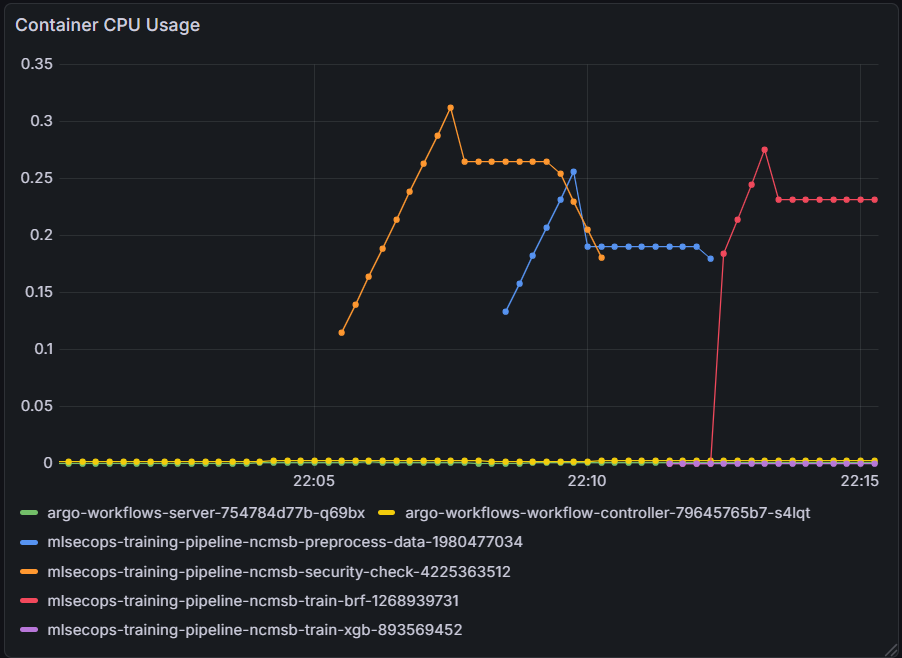
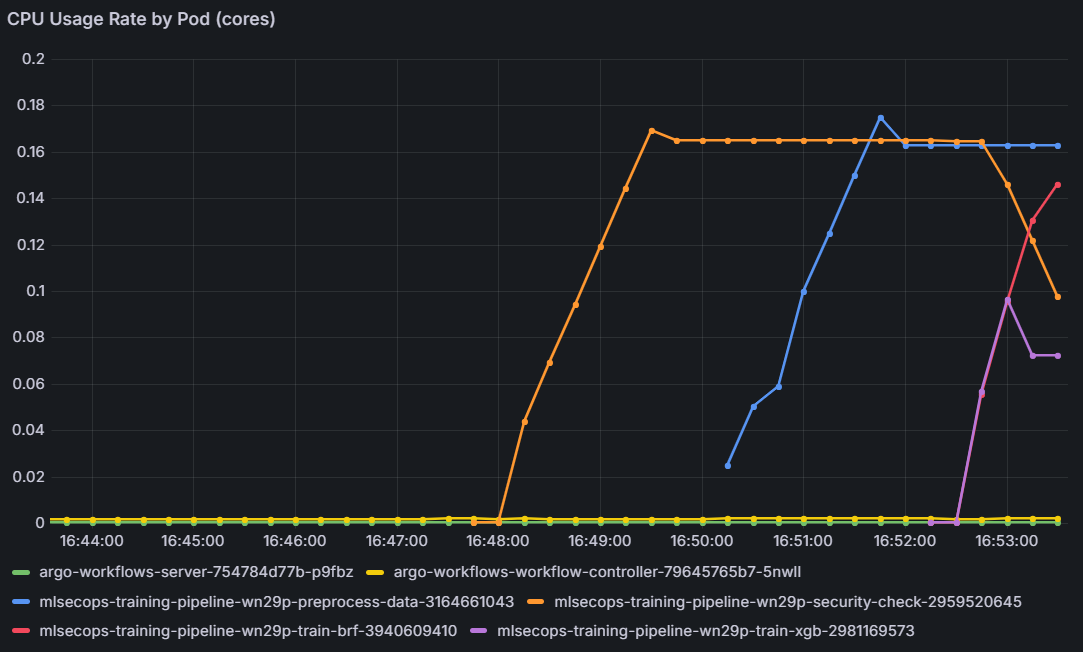
thêm nội dung phần đánh giá hiệu năng mlsecops

diff --git a/chapters/4-DanhGiaKetQua.tex b/chapters/4-DanhGiaKetQua.tex
@@ -340,6 +340,12 @@ Cấu hình của Retrain Pipeline được thực thi với các tham số sau:
 Tập dữ liệu huấn luyện mô hình bao gồm toàn bộ tập \textbf{Train/Test}, dữ liệu mới dùng cho tái huấn luyện mô hình được trích từ tập \textbf{Out-of-time Test Set}. Chi tiết được mô tả tại Bảng \ref{tab:dataset_split}.
 
 \subsection{Đánh giá hiệu năng hệ thống MLSecOps}
+Trong phần này, nhóm tiến hành đánh giá hiệu năng hệ thống MLSecOps trong quá trình thực thi pipeline huấn luyện và tái huấn luyện mô hình. Việc đánh giá tập trung vào mức tiêu thụ tài nguyên hệ thống của từng bước trong pipeline nhằm làm rõ đặc tính tính toán, xác định các bước có nguy cơ trở thành nút thắt hiệu năng, đồng thời cung cấp cơ sở cho việc tối ưu và mở rộng hệ thống trong tương lai.
+
+Hai chỉ số hiệu năng chính được theo dõi là mức sử dụng CPU và bộ nhớ của các pod trong hệ thống. Các chỉ số này được Prometheus thu thập trong suốt quá trình thực thi pipeline và được trực quan hóa thông qua các dashboard Grafana, cho phép quan sát trực tiếp sự biến động tài nguyên theo thời gian.
+
+Cụ thể, mức sử dụng CPU được đo bằng chỉ số container_cpu_usage_rate, phản ánh số nhân CPU mà mỗi pod sử dụng trung bình tại một thời điểm. Trong khi đó, mức sử dụng bộ nhớ được đo bằng container_memory_working_set, đại diện cho lượng bộ nhớ thực tế mà pod đang chiếm giữ trong quá trình xử lý. Việc lựa chọn hai chỉ số này giúp phản ánh chính xác cường độ tính toán và nhu cầu lưu trữ dữ liệu của từng bước trong pipeline MLSecOps.
+
 \label{sec:4.2.1}
 %TODO
 \begin{table}[!htbp]
@@ -385,14 +391,14 @@ Tập dữ liệu huấn luyện mô hình bao gồm toàn bộ tập \textbf{Tr
 \end{table}
 
 
-
-Hai chỉ số hiệu năng trong lúc quy trình MLSecOps thực thi mà nhóm theo dõi là CPU và memory. Các chỉ số này được Prometheus thu thập trong quá trình thực thi quy trình huấn luyện mô hình, và được trực quan hóa bằng Grafana. Cụ thể hai chỉ số được theo dõi là rate container cpu usage seconds - cho biết mức nhân CPU mà pod đang sử dụng trung bình, và container memory working set bytes - đo lường bộ nhớ 
-được pod tiêu thụ tại một thời điểm.
-
-Mục tiêu của nhóm khi lựa chọn hai chỉ số này là để có cái nhìn định lượng về mỗi bước trong quy trình MLSecOps đang tính toán bao nhiêu và giữ bao nhiêu dữ liệu, qua đó có thể xác định được bottleneck và tối ưu tài nguyên.
-
-\subsubsection{Mức nhân CPU pod sử dụng trung bình}
+\subsubsection{Mức nhân CPU pod sử dụng}
 \paragraph{Huấn luyện mô hình}
+
+Hình \ref{fig:chap4-grafana-cpu} minh họa mức sử dụng CPU của các pod trong quá trình huấn luyện mô hình. Biểu đồ cho thấy mức tiêu thụ CPU thay đổi rõ rệt giữa các bước trong pipeline, phản ánh sự khác biệt về cường độ tính toán của từng tác vụ.
+
+Quan sát từ biểu đồ cho thấy các bước liên quan đến kiểm tra tấn công lật nhãn (security check) và huấn luyện mô hình có mức sử dụng CPU cao hơn đáng kể so với các bước còn lại. Đặc biệt, bước security check thể hiện mức sử dụng CPU cao và duy trì ổn định trong suốt thời gian thực thi, cho thấy đây là bước có cường độ xử lý lớn và có khả năng trở thành nút thắt hiệu năng của pipeline nếu không được cấp phát tài nguyên phù hợp.
+
+Ngược lại, các bước như chuẩn bị dữ liệu hoặc so sánh mô hình có mức sử dụng CPU thấp và thời gian thực thi ngắn, cho thấy các bước này không tạo áp lực đáng kể lên tài nguyên tính toán của hệ thống.
 
 \begin{figure}[!htbp]
     \centering
@@ -401,11 +407,17 @@ Mục tiêu của nhóm khi lựa chọn hai chỉ số này là để có cái 
     \label{fig:chap4-grafana-cpu}
 \end{figure}
 
-Hình \ref{fig:chap4-grafana-cpu} thể hiện mức nhân CPU mà pod trong hệ thống MLSecOps sử dụng trung bình theo thời gian trong quá trình huấn luyện mô hình. Trong biểu đồ này, trục hoành biểu diễn mốc thời gian, trong khi tục tung biểu diễn mức sử dụng CPU của từng container được đo theo đơn vị nhân CPU. Các đường trong biểu đồ tương ứng với một pod trong từng bước của quy trình MLSecOps.
-
-Bảng \ref{tab:cpu_usage_per_pod} trình bày mức sử dụng CPU của từng pod tương ứng với các bước trong pipeline MLsecOps. Kết quả cho thấy bước security check và train brf là hai bước tiêu thụ nhiều tài nguyên CPU nhất. Trong đó, bước security check tiêu thụ CPU cao nhất (0.31 nhân), cho ta thấy đây là bước có cường độ tính toán cao và có khả năng trở thành nút thắt hiệu năng của pipeline. Các bước khác như get base data và train-xgb có mức sử dụng CPU thấp và thời gian thực thi ngắn, cho thấy các bước này không tạo áp lực đáng kể lên tài nguyên hệ thống.
-
 \paragraph{Tái huấn luyện mô hình}
+Hình \ref{fig:chap4-grafana-cpu} minh họa mức sử dụng CPU của các pod trong hệ thống MLSecOps trong kịch bản tái huấn luyện mô hình. Nhìn chung, xu hướng sử dụng CPU cũng tương tự như quá trình huấn luyện ban đầu, tuy nhiên có sự thay đổi nhẹ về mức độ tiêu thụ tài nguyên giữa các bước. Một số bước thể hiện mức sử dụng CPU thấp hơn do dữ liệu đầu vào phần lớn đã có sẵn, trong khi các bước huấn luyện mô hình và tiền xử lý vẫn duy trì mức sử dụng CPU đáng kể.
+
+Kết quả này cho thấy pipeline MLSecOps có khả năng tận dụng lại các thành phần đã được xử lý trước đó, giúp giảm chi phí tính toán trong các lần tái huấn luyện, đồng thời vẫn đảm bảo tính toàn vẹn và an toàn của quy trình.
+
+\begin{figure}[!htbp]
+    \centering
+    \includegraphics[scale=0.6]{img/chapter4/cpu-retrain.png}
+    \caption{Biểu đồ mức nhân CPU pod sử dụng trung bình khi tái huấn luyện mô hình}
+    \label{fig:chap4-grafana-cpu}
+\end{figure}
 
 % \begin{table}[h!]
 % \centering
@@ -433,19 +445,30 @@ Bảng \ref{tab:cpu_usage_per_pod} trình bày mức sử dụng CPU của từn
 % \end{tabular}
 % \end{table}
 
-
-\subsubsection{Bộ nhớ pod tiêu thụ}
+\subsubsection{Bộ nhớ pod sử dụng}
+\paragraph{Huấn luyện mô hình}
+Hình \ref{fig:chap4-mem-train} minh họa mức sử dụng bộ nhớ của các pod trong kịch bản huấn luyện mô hình. Biểu đồ cho thấy mức tiêu thụ bộ nhớ có sự khác biệt rõ rệt giữa các bước trong pipeline, phản ánh đặc điểm về xử lý và lượng dữ liệu được nạp vào bộ nhớ của từng tác vụ.
 
 \begin{figure}[!htbp]
     \centering
-    \includegraphics[scale=0.6]{img/chapter4/grafana-memory-time-series.png}
-    \caption{Biểu đồ bộ nhớ pod tiêu thụ tại từng thời điểm}
-    \label{fig:chap4-grafana-memory}
+    \includegraphics[scale=0.6]{img/chapter4/mem-train.png}
+    \caption{Biểu đồ bộ nhớ pod tiêu thụ trong quá trình huấn luyện mô hình}
+    \label{fig:chap4-mem-train}
 \end{figure}
 
-Hình \ref{fig:chap4-grafana-memory} thể hiện mức sử dụng bộ nhớ của các pod trong quy trình MLSecOps theo thời gian. Trong biểu đồ này, trục hoành biểu diễn mốc thời gian, trong khi trục tung biểu diễn lượng bộ nhớ mà mỗi pod sử dụng, tính theo đơn vị megabyte. Các đường trong biểu đồ tương ứng với một pod trong từng bước của quy trình huấn luyện dữ liệu của hệ thống MLSecOps.
+Ta có thể thấy, bước security check và huấn luyện mô hình yêu cầu lượng bộ nhớ đáng kể và duy trì mức sử dụng cao trong suốt thời gian thực thi.
 
-Bảng \ref{tab:memory_usage_per_pod} trình bày mức sử dụng bộ nhớ của từng pod tương ứng với các bước trong pipeline MLsecOps. Trong đó, bước security check tiêu thụ lượng bộ nhớ lớn nhất, với giá trị cao nhất khoảng 1.6 GB và duy trì ổn định trong suốt quá trình thực thi. Bước train brf cũng sử dụng lượng bộ nhớ đáng kể do phải lưu trữ dữ liệu huấn luyện và tham số mô hình. Các bước còn lại như preprocess data, train-xgb và get base data có mức sử dụng bộ nhớ thấp hơn và không tạo áp lực đáng kể lên tài nguyên hệ thống.
+\paragraph{Tái huấn luyện mô hình}
+Hình \ref{fig:chap4-mem-retrain} cho thấy mức sử dụng bộ nhớ của các pod trong kịch bản tái huấn luyện mô hình. Nhìn chung, xu hướng tiêu thụ bộ nhớ trong giai đoạn này tương tự quá trình huấn luyện ban đầu, tuy nhiên mức sử dụng bộ nhớ ở một số bước có sự thay đổi nhẹ.
+
+\begin{figure}[!htbp]
+    \centering
+    \includegraphics[scale=0.6]{img/chapter4/mem-retrain.png}
+    \caption{Biểu đồ bộ nhớ pod tiêu thụ trong quá trình tái huấn luyện mô hình}
+    \label{fig:chap4-mem-retrain}
+\end{figure}
+
+Cụ thể, các bước chuẩn bị dữ liệu thể hiện mức sử dụng bộ nhớ thấp và ổn định, do phần lớn dữ liệu đầu vào đã được xử lý và lưu trữ từ các lần huấn luyện trước. Ngược lại, bước security check tiếp tục là bước tiêu thụ bộ nhớ lớn nhất trong pipeline, với mức sử dụng bộ nhớ cao và duy trì ổn định trong suốt thời gian thực thi.
 
 % \begin{table}[h!]
 % \centering
@@ -472,8 +495,6 @@ Bảng \ref{tab:memory_usage_per_pod} trình bày mức sử dụng bộ nhớ c
 % \hline
 % \end{tabular}
 % \end{table}
-
-Phân tích trên về mức sử dụng CPU và bộ nhớ của các bước trong pipeline MLsecOps cho thấy tài nguyên hệ thống được sử dụng không đồng đều giữa các bước. Một số bước chỉ tiêu thụ lượng tài nguyên nhỏ, trong khi một số bước khác có yêu cầu tính toán và lưu trữ dữ liệu lớn hơn đáng kể. Nhìn chung, các phân tích này cung cấp cơ sở cho việc điều chỉnh cấu hình tài nguyên và cải thiện khả năng mở rộng của hệ thống MLsecOps.
 
 
 \subsection{Đánh giá hiệu quả của \ac{dag} trong hệ thống MLSecOps}
